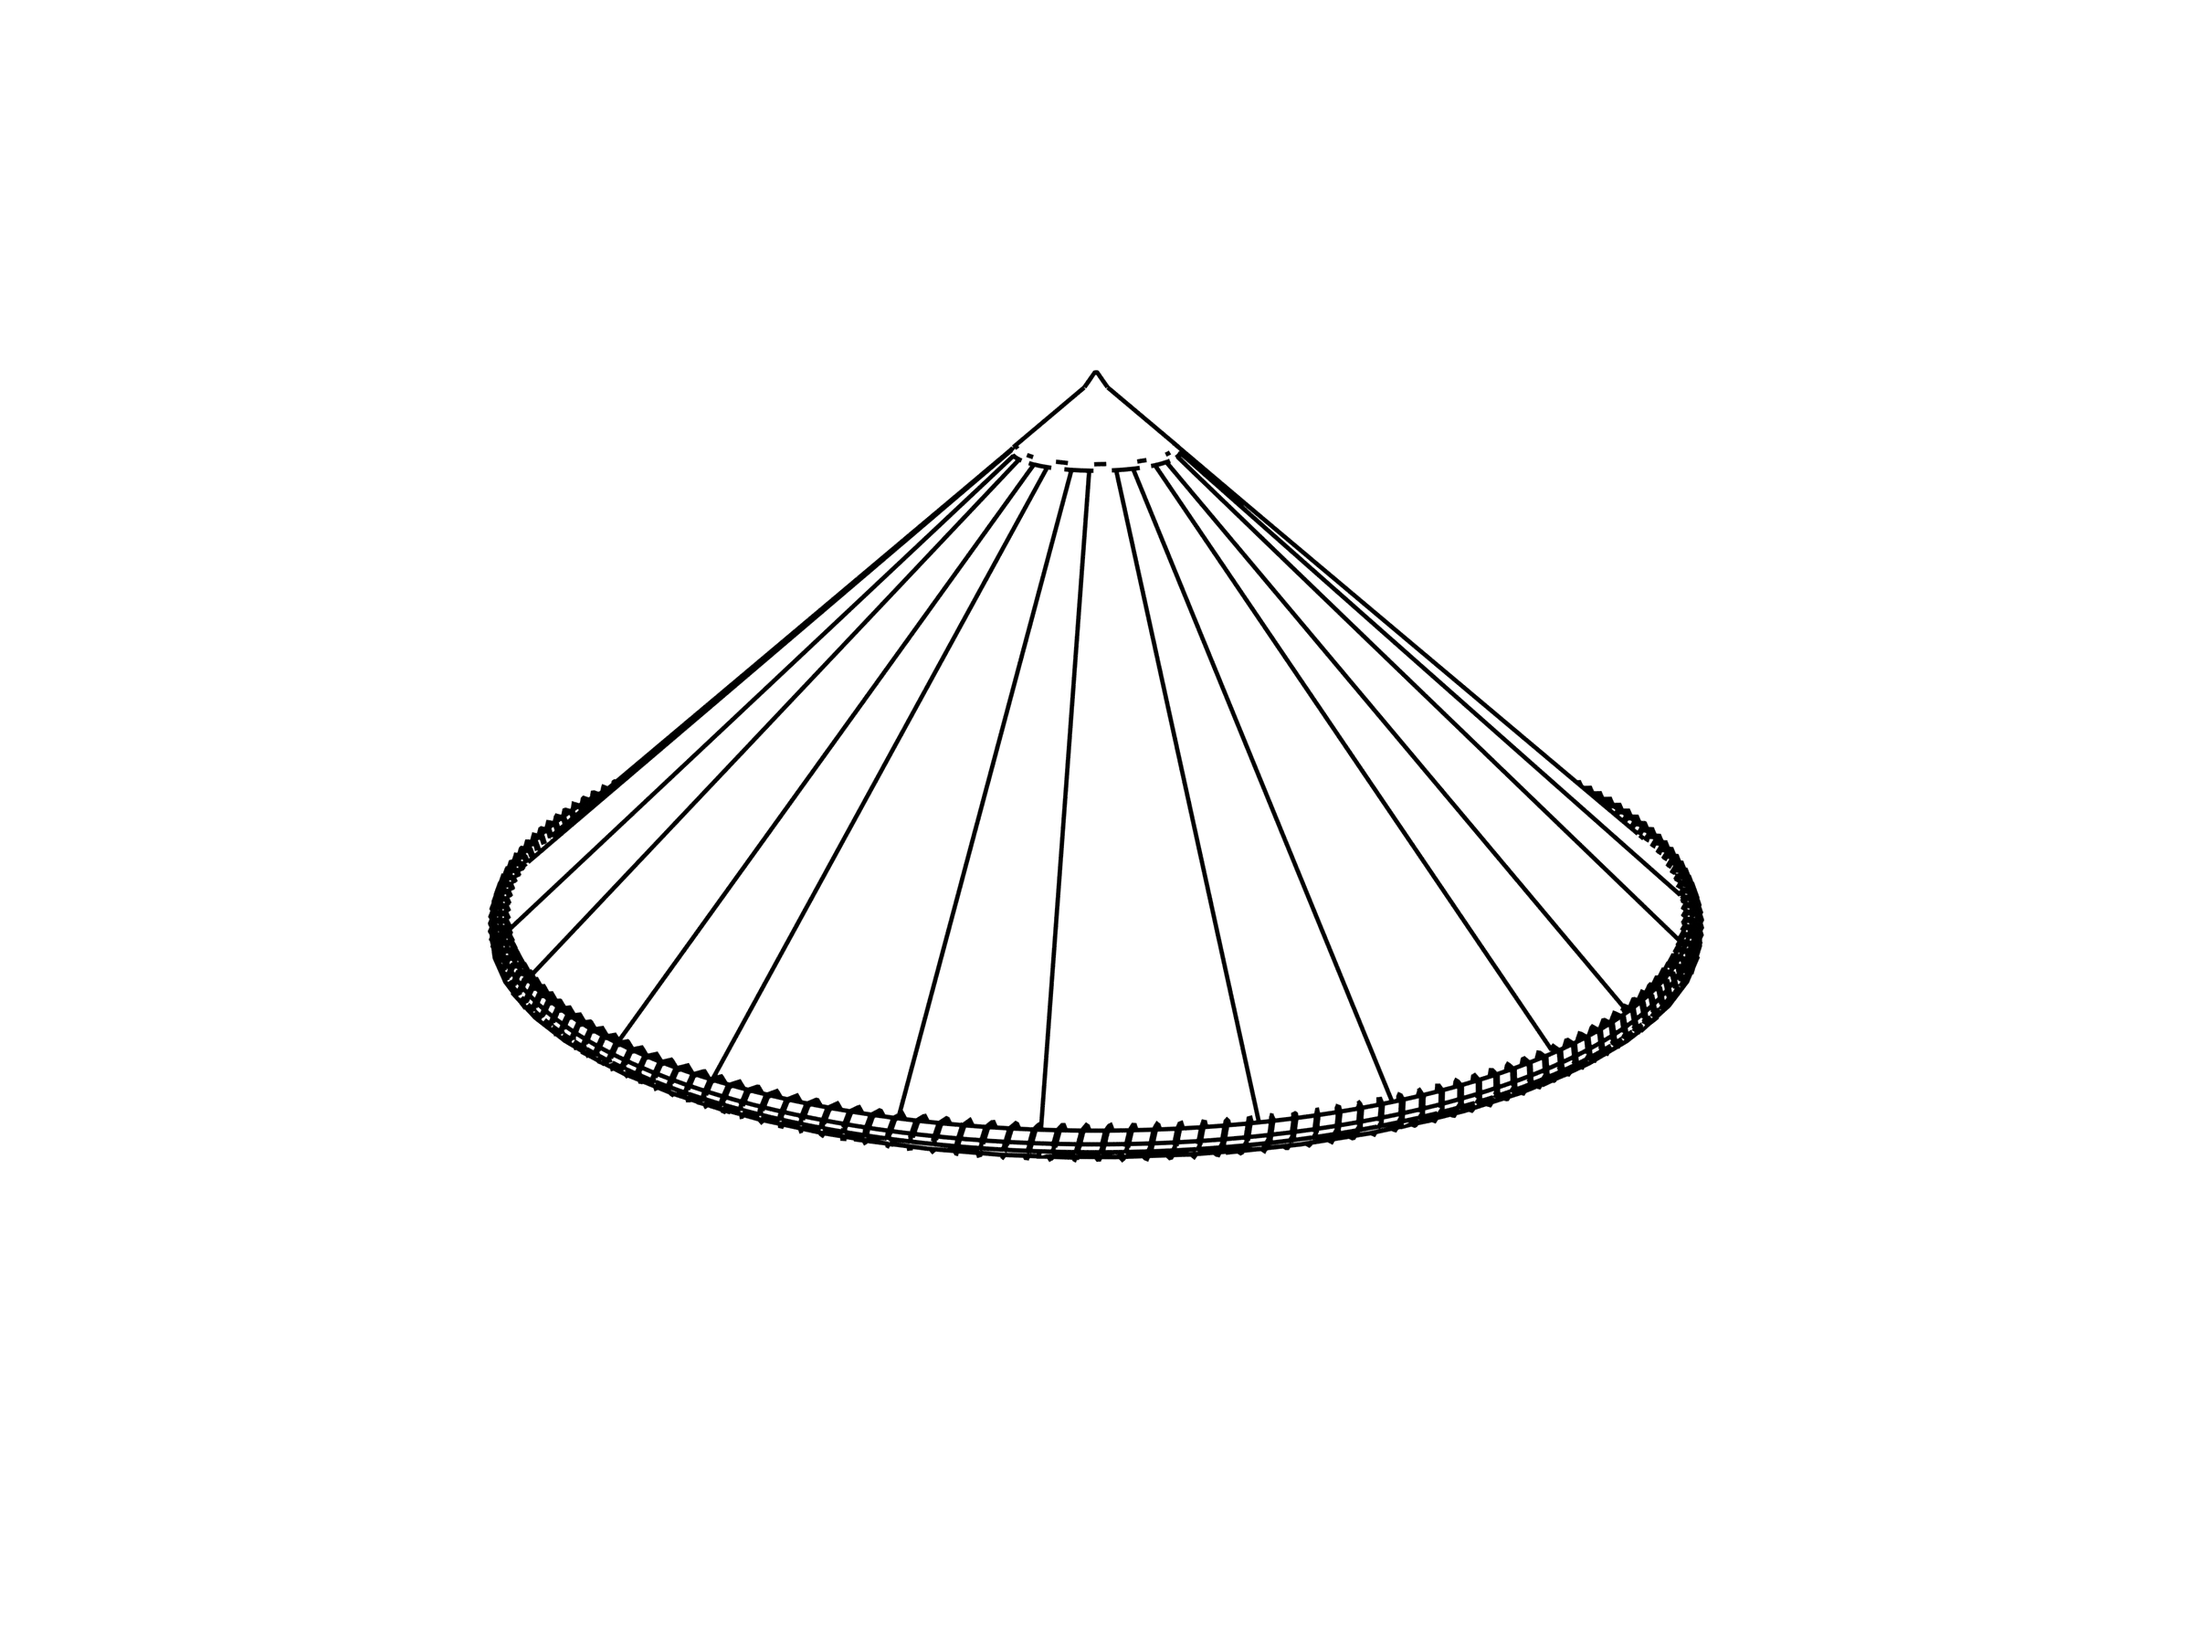
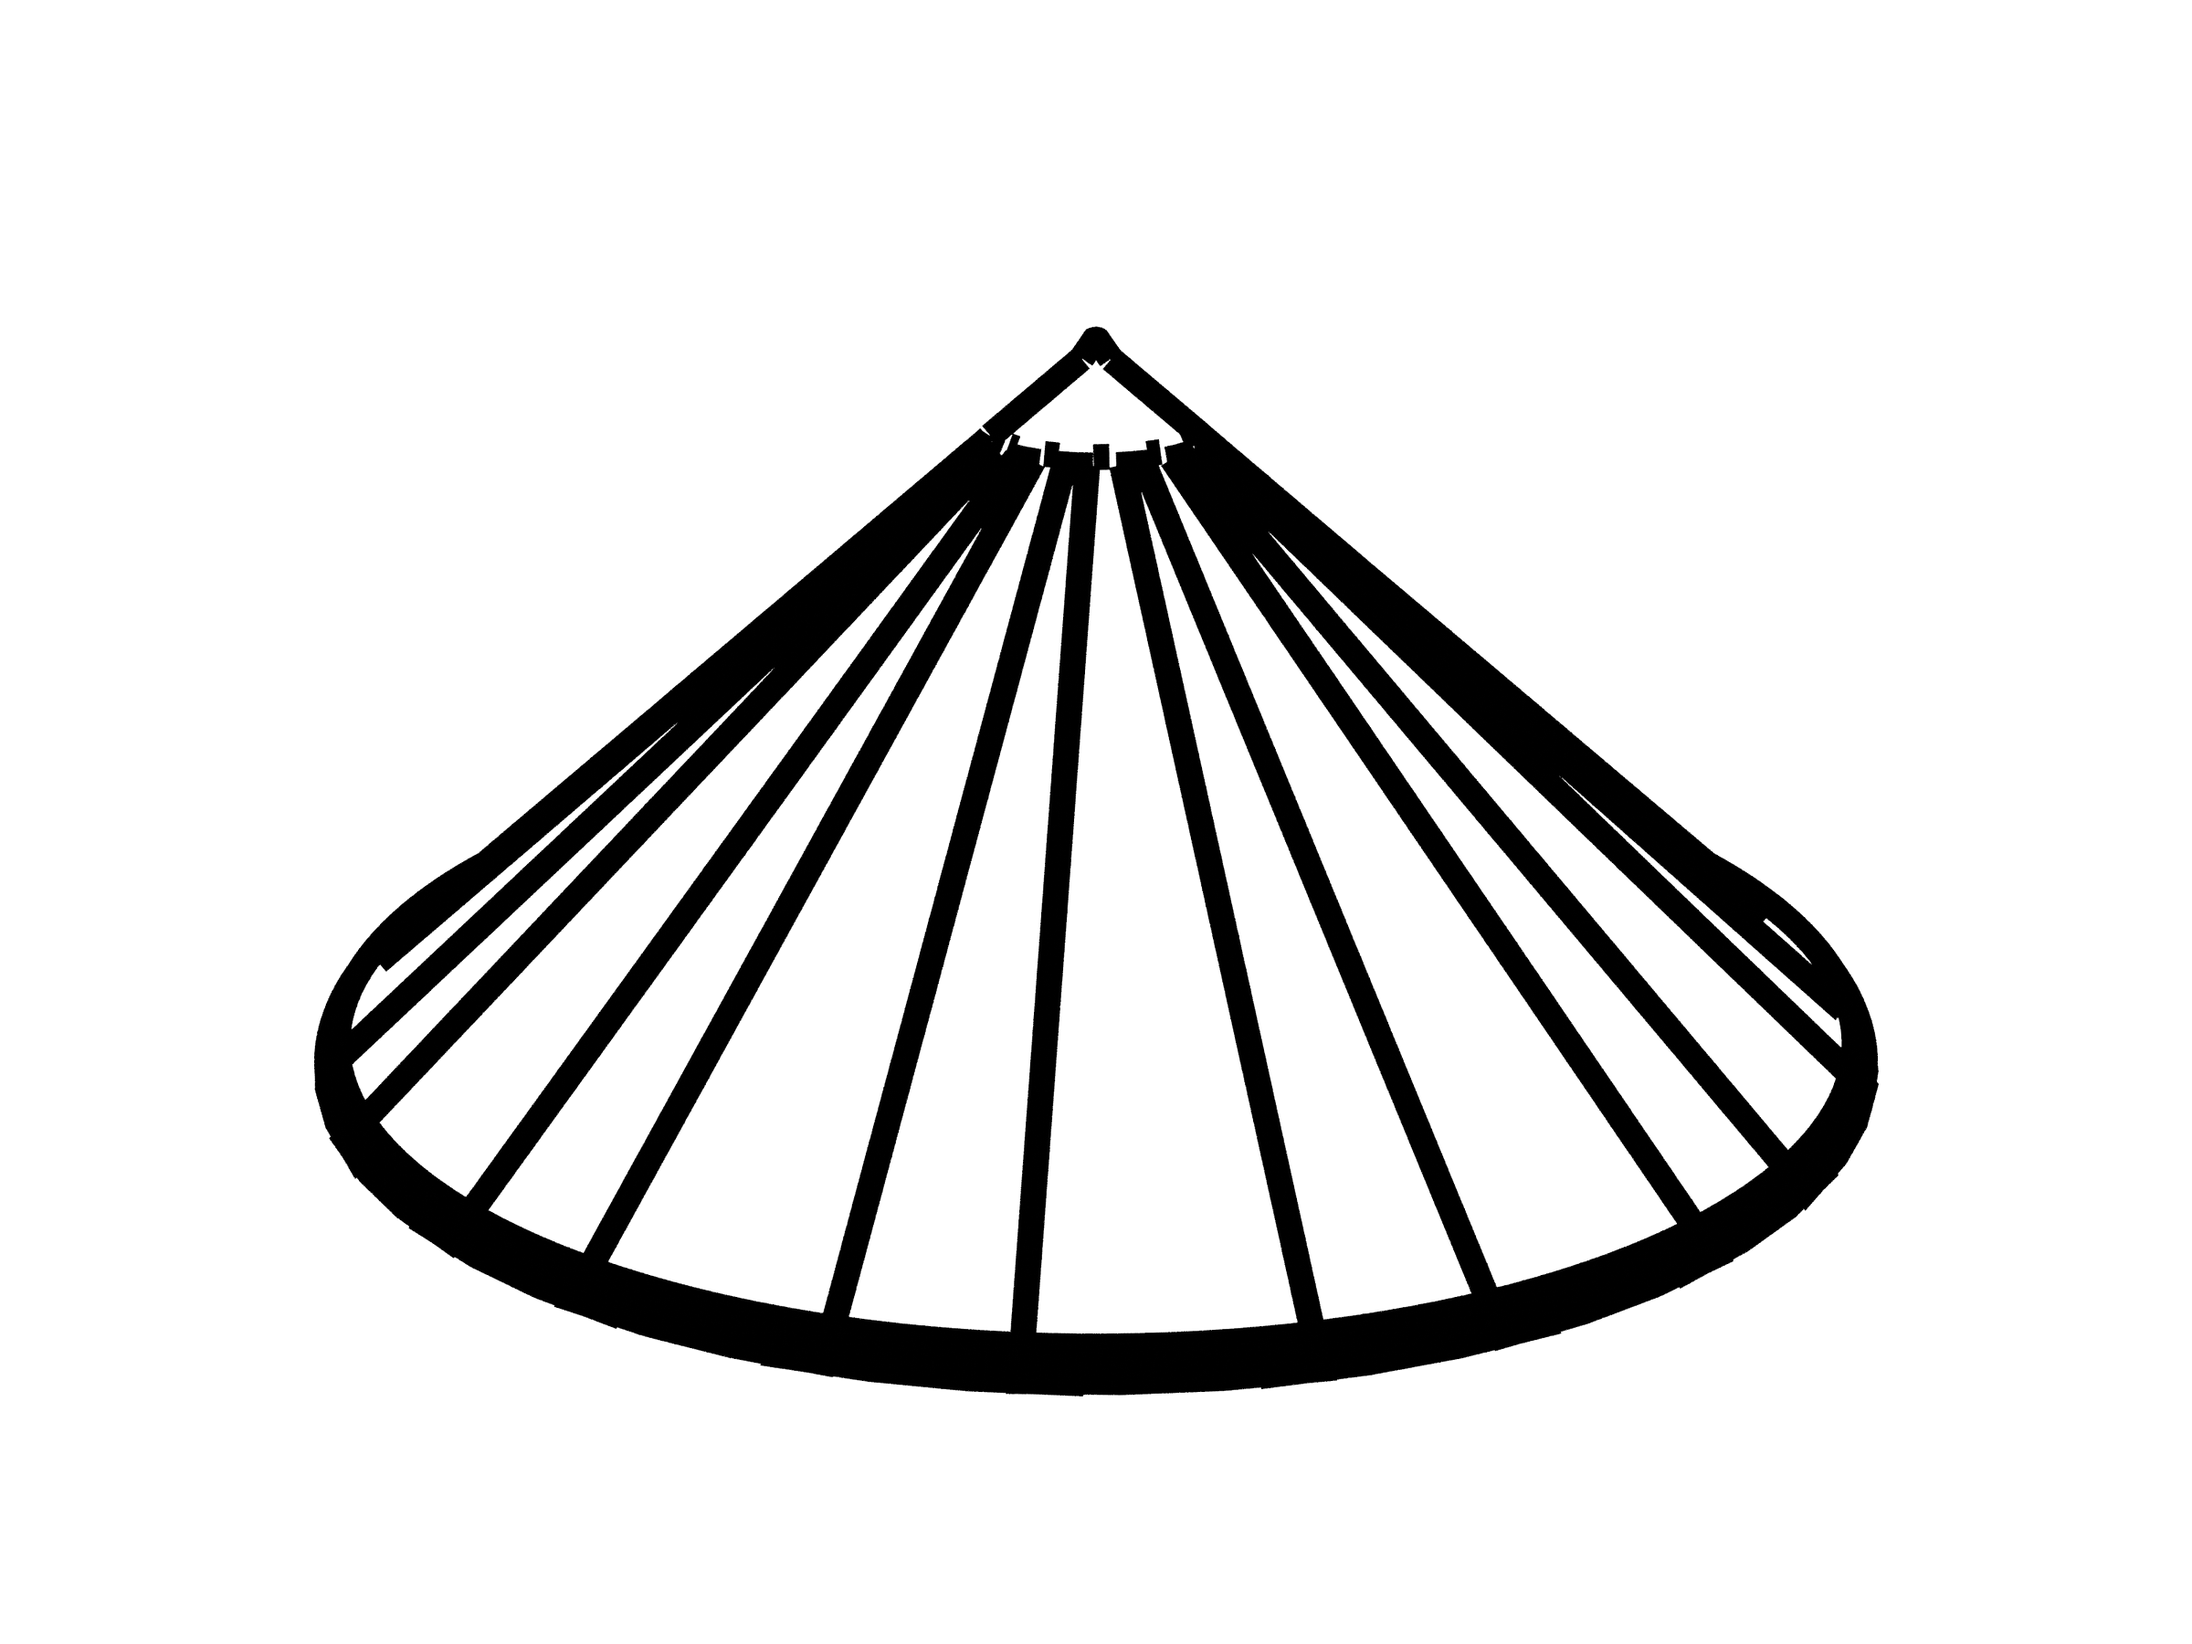
Switch on Blender build layers and quiz pictures; simpler colouring pages
- Build game stacks the Blender layers; every quiz answer has a picture:
  Q2–Q4 Blender renders, Q1 from Blender stills (brim thread, outer leaves,
  strap), Q5 Higgsfield art (poems, coins, rice).
- Colouring pages 1–2 re-rendered: bold 5 px lines, larger hat, no red
  brim wrap (it cut the brim into ~100 untappable cells). Page 4 is a
  simpler Higgsfield market (~100 small regions instead of ~450).

Claude-Session: https://claude.ai/code/session_01WQjrEhfjTUnKssE9jgzZhv

Changed region(s): [[0.125, 0.1867, 0.875, 0.8711]]

diff --git a/blender/render_jobs.py b/blender/render_jobs.py
@@ -530,8 +530,9 @@ def job_quiz(scene):
 
 def job_lineart(scene):
     freeze_at_rest(scene)
-    stills_camera(scene)
     res(scene, 3000, 2250)
+    old_samples = scene.cycles.samples
+    scene.cycles.samples = 8  # flat white emission: lines come from Freestyle, not from sampling
     scene.render.film_transparent = False
     world = scene.world
     bg = next(n for n in world.node_tree.nodes if n.type == "BACKGROUND")
@@ -556,7 +557,8 @@ def job_lineart(scene):
     scene.view_settings.exposure = 0.0
     scene.render.use_freestyle = True
     scene.render.line_thickness_mode = "ABSOLUTE"
-    scene.render.line_thickness = 2.6 * SCALE / 0.33 if PREVIEW else 2.6
+    # bold enough for small hands: ~5 px at the 2400 px the app uses
+    scene.render.line_thickness = 6.0 * SCALE if PREVIEW else 6.0
     fs = vl.freestyle_settings
     ls = fs.linesets[0] if fs.linesets else fs.linesets.new("lines")
     if ls.linestyle is None:
@@ -567,18 +569,25 @@ def job_lineart(scene):
     ls.select_border = True
     ls.select_crease = True
     ls.linestyle.color = (0, 0, 0)
-    ls.linestyle.thickness = 2.6
+    ls.linestyle.thickness = 6.0
     floor = bpy.data.objects.get("shadow_catcher")
     if floor:
         floor.hide_render = True
-    pages = [("page-1-plain", [p for p in ALL_PARTS if p not in ("strap_rig", "stitches_white")]),
-             ("page-2-strap", [p for p in ALL_PARTS if p != "stitches_white"])]
-    for n, (name, parts) in enumerate(pages, 1):
+    # The red thread wrapped round the brim would cut it into ~100 cells too small to tap-fill, so the brim is
+    # drawn as its bark band between the two wires. Each page frames the hat as large as its content allows.
+    pages = [("page-1-plain", [p for p in ALL_PARTS if p not in ("strap_rig", "stitches_white")], (0, 0, 0.06), 0.98),
+             ("page-2-strap", [p for p in ALL_PARTS if p != "stitches_white"], (0, 0, -0.05), 1.12)]
+    for n, (name, parts, target, dist) in enumerate(pages, 1):
+        cam, _ = look_at_camera(f"CAM_{name}", target, orbit(target, STILLS_CAM["yaw"], STILLS_CAM["elev"], dist),
+                                fov_y=STILLS_CAM["fov"])
+        scene.camera = cam
         set_visible(parts)
+        ob("brim_thread_red").hide_render = True
         render_still(scene, os.path.join(OUT, "lineart", f"{name}.png"))
         print(f"PROGRESS lineart {n}/{len(pages)}", flush=True)
     vl.material_override = None
     scene.view_settings.exposure = old_exposure
+    scene.cycles.samples = old_samples
     scene.render.use_freestyle = False
     bg.inputs["Color"].default_value, bg.inputs["Strength"].default_value = (*old_bg[0][:3], 1), old_bg[1]
     scene.render.film_transparent = True
